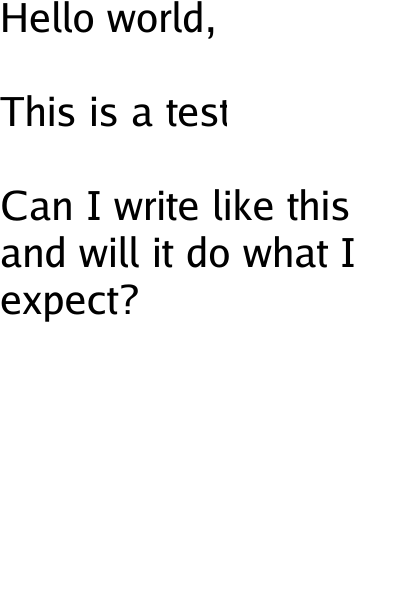
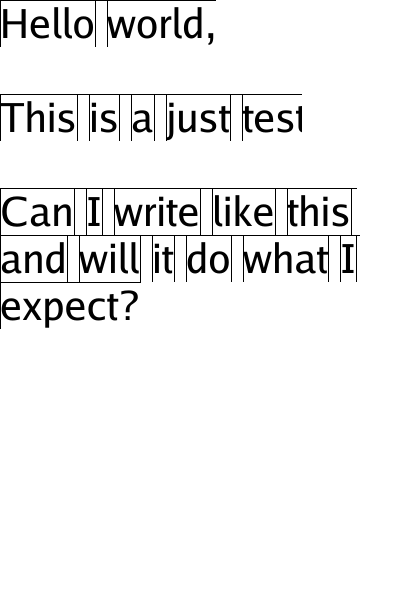
Better box spacing

diff --git a/fold.go b/fold.go
@@ -18,9 +18,9 @@ type Line interface {
 type Folder func(b Boxer, pos int, feed []rune) (Line, int, error)
 
 type SimpleLine struct {
-	Boxes      []Box
-	size       fixed.Rectangle26_6
-	fullAscent fixed.Int26_6
+	Boxes  []Box
+	size   fixed.Rectangle26_6
+	height fixed.Int26_6
 }
 
 func (sl *SimpleLine) DrawLine(i Image) error {
@@ -35,7 +35,7 @@ func (sl *SimpleLine) DrawLine(i Image) error {
 			Min: pmin,
 			Max: pmax,
 		}).(*image.RGBA)
-		b.DrawBox(subImage, sl.fullAscent)
+		b.DrawBox(subImage, sl.height)
 		pmin.X += ir
 	}
 	return nil
@@ -89,9 +89,9 @@ func SimpleFolder(boxer Boxer, fce font.Face, feed []rune, container image.Recta
 		if dc > r.size.Max.Y {
 			r.size.Max.Y = dc
 		}
-		fullAscent := m.Height - m.Descent
-		if r.fullAscent < fullAscent {
-			r.fullAscent = fullAscent
+		height := m.Ascent
+		if r.height < height {
+			r.height = height
 		}
 		n += i
 		r.Boxes = append(r.Boxes, b)

diff --git a/box.go b/box.go
@@ -3,6 +3,7 @@ package wordwrap
 import (
 	"errors"
 	"fmt"
+	"github.com/arran4/golang-wordwrap/util"
 	"golang.org/x/image/font"
 	"golang.org/x/image/math/fixed"
 	"image"
@@ -150,6 +151,7 @@ func (sb *SimpleBox) DrawBox(i Image, y fixed.Int26_6) {
 		Y: fixed.I(b.Min.Y) + y,
 	}
 	sb.drawer.DrawString(sb.Contents)
+	util.DrawBox(i, b)
 }
 
 type LineBreakBox struct {

diff --git a/util/image.go b/util/image.go
@@ -1,0 +1,18 @@
+package util
+
+import (
+	"image"
+	"image/color"
+	"image/draw"
+)
+
+func DrawBox(i draw.Image, s image.Rectangle) {
+	for x := s.Min.X; x < s.Max.X; x++ {
+		i.Set(x, s.Min.Y, color.Black)
+		i.Set(x, s.Max.Y, color.Black)
+	}
+	for y := s.Min.Y; y < s.Max.Y; y++ {
+		i.Set(s.Min.X, y, color.Black)
+		i.Set(s.Max.X, y, color.Black)
+	}
+}

diff --git a/cmd/simplewraptoimage/main.go b/cmd/simplewraptoimage/main.go
@@ -58,6 +58,7 @@ func main() {
 		if err := l.DrawLine(rgba); err != nil {
 			log.Panicf("Error with drawing text: %s", err)
 		}
+		//util.DrawBox(i, s.Add(p))
 		p.Y += s.Dy()
 		n += ni
 	}
